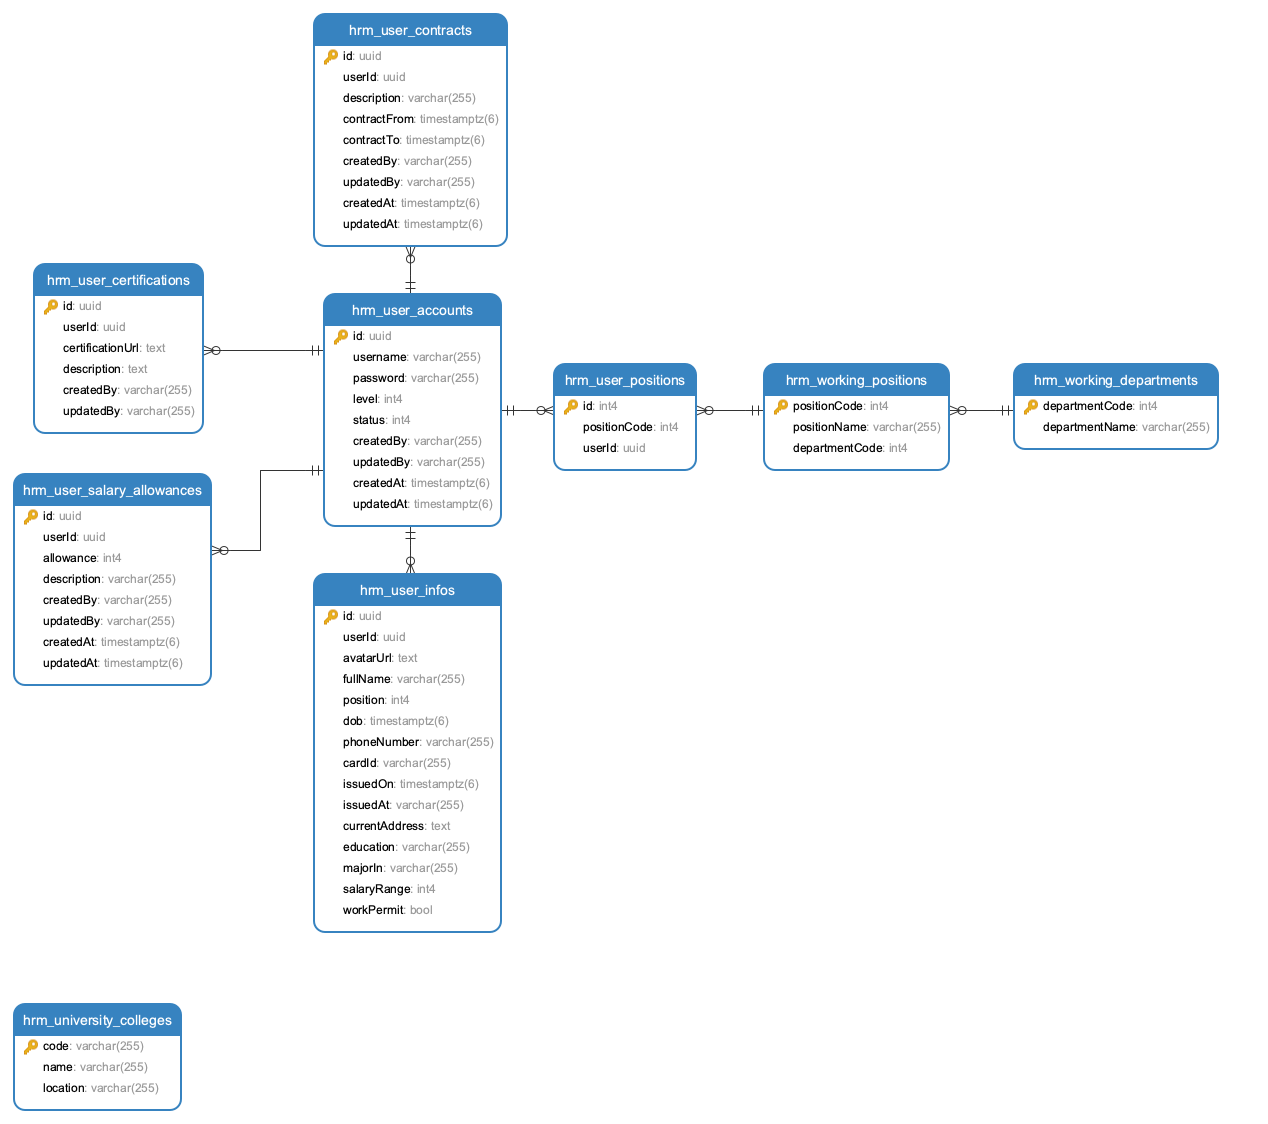
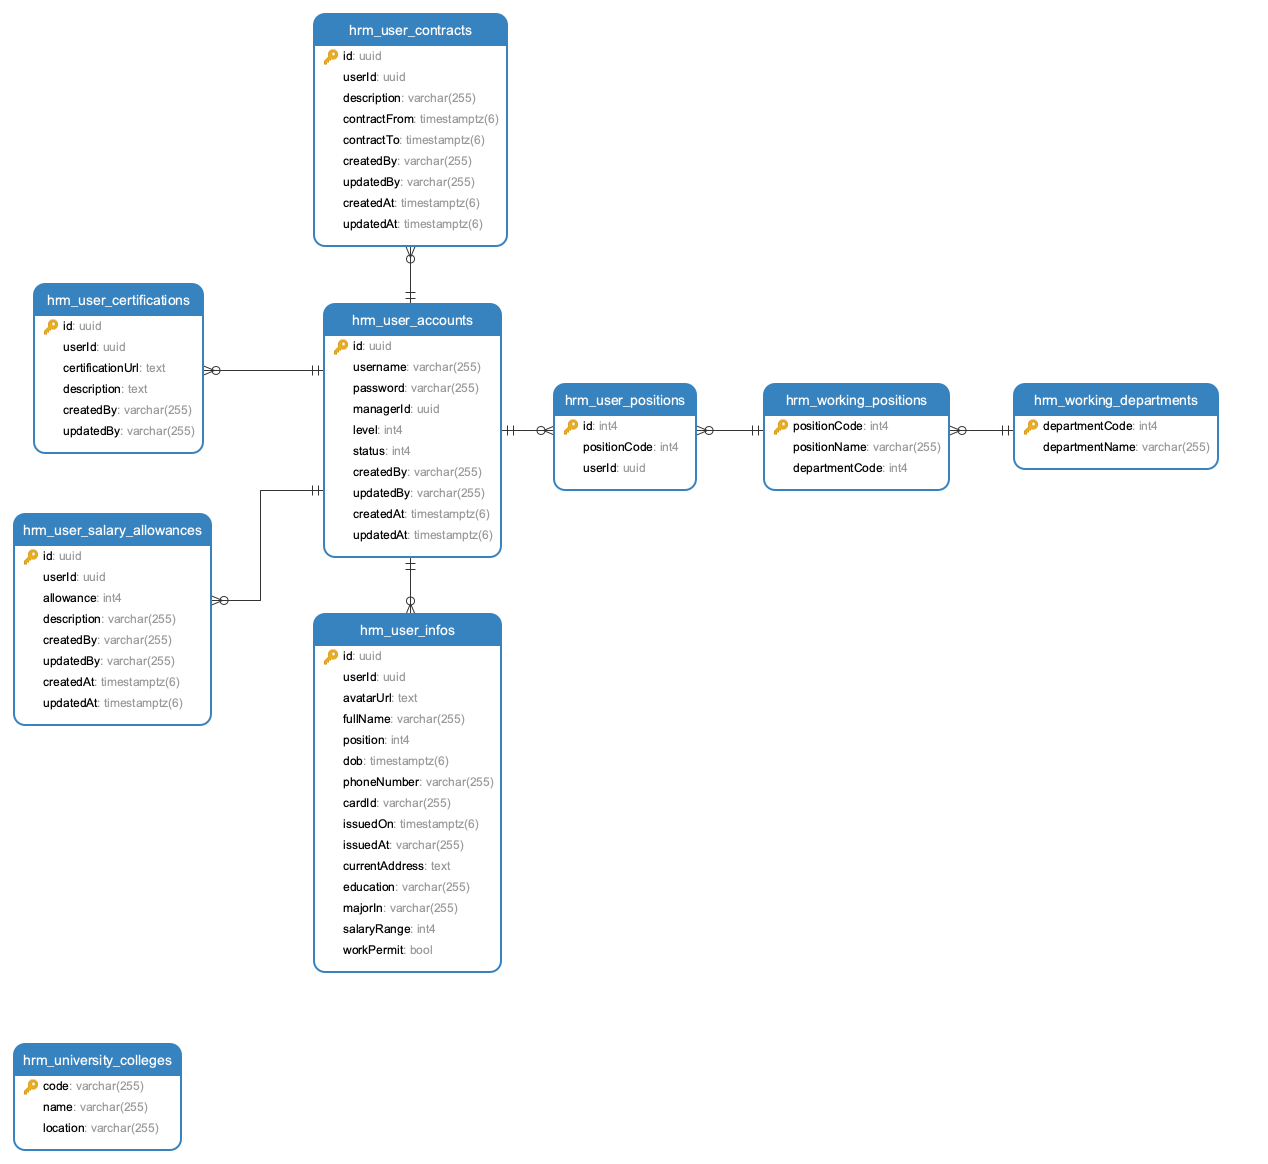
[006]: Add new field to hrm_user_account table

diff --git a/server/src/models/user/UserAccountFactory.ts b/server/src/models/user/UserAccountFactory.ts
@@ -4,6 +4,7 @@ interface IUserAccountAttributes {
   id: string;
   username: string;
   password: string;
+  managerId: string;
   level: number;
   status: number;
   updatedBy: string;
@@ -38,6 +39,10 @@ export const UserAccountFactory = (sequelize: Sequelize) => {
     password: {
       allowNull: false,
       type: DataTypes.STRING,
+    },
+    managerId: {
+      allowNull: true,
+      type: DataTypes.UUID,
     },
     level: {
       allowNull: false,
